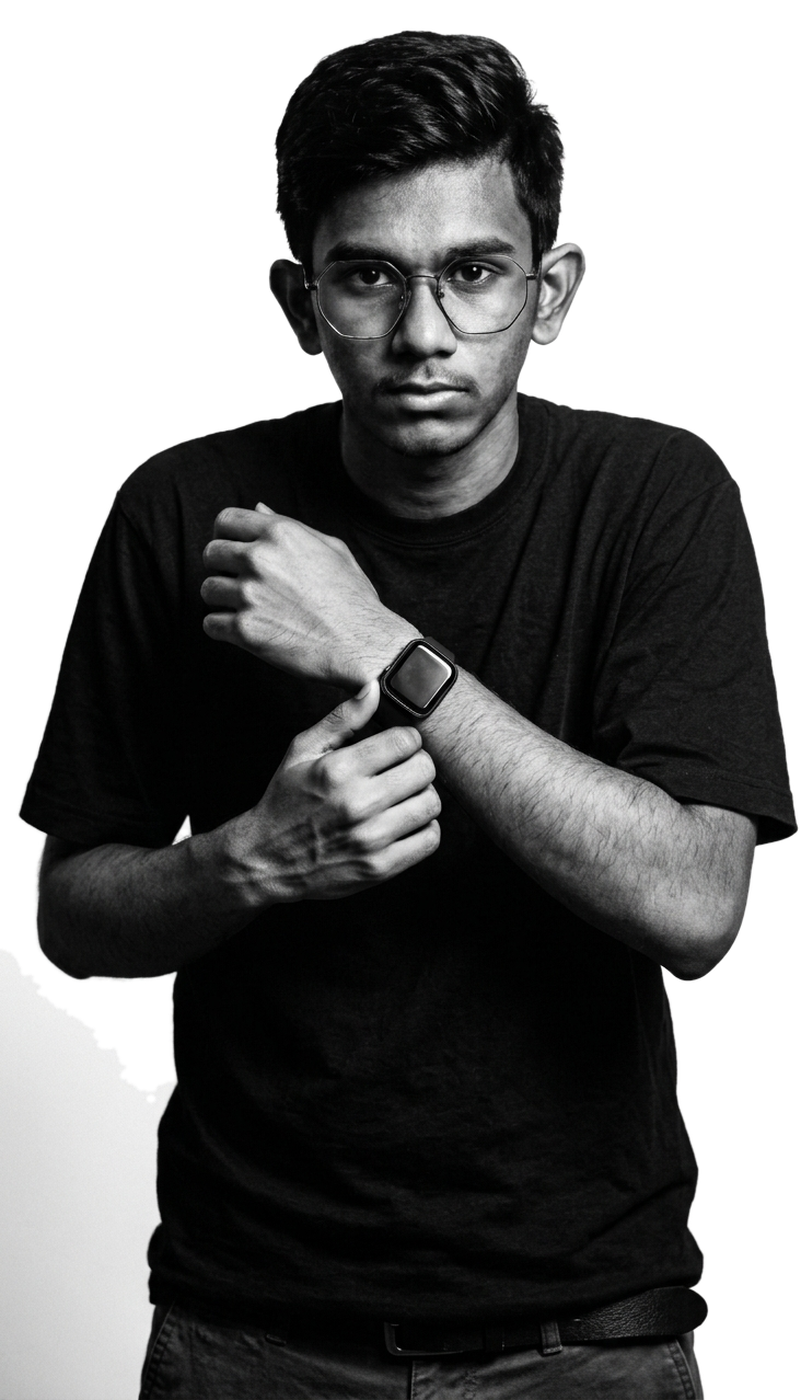
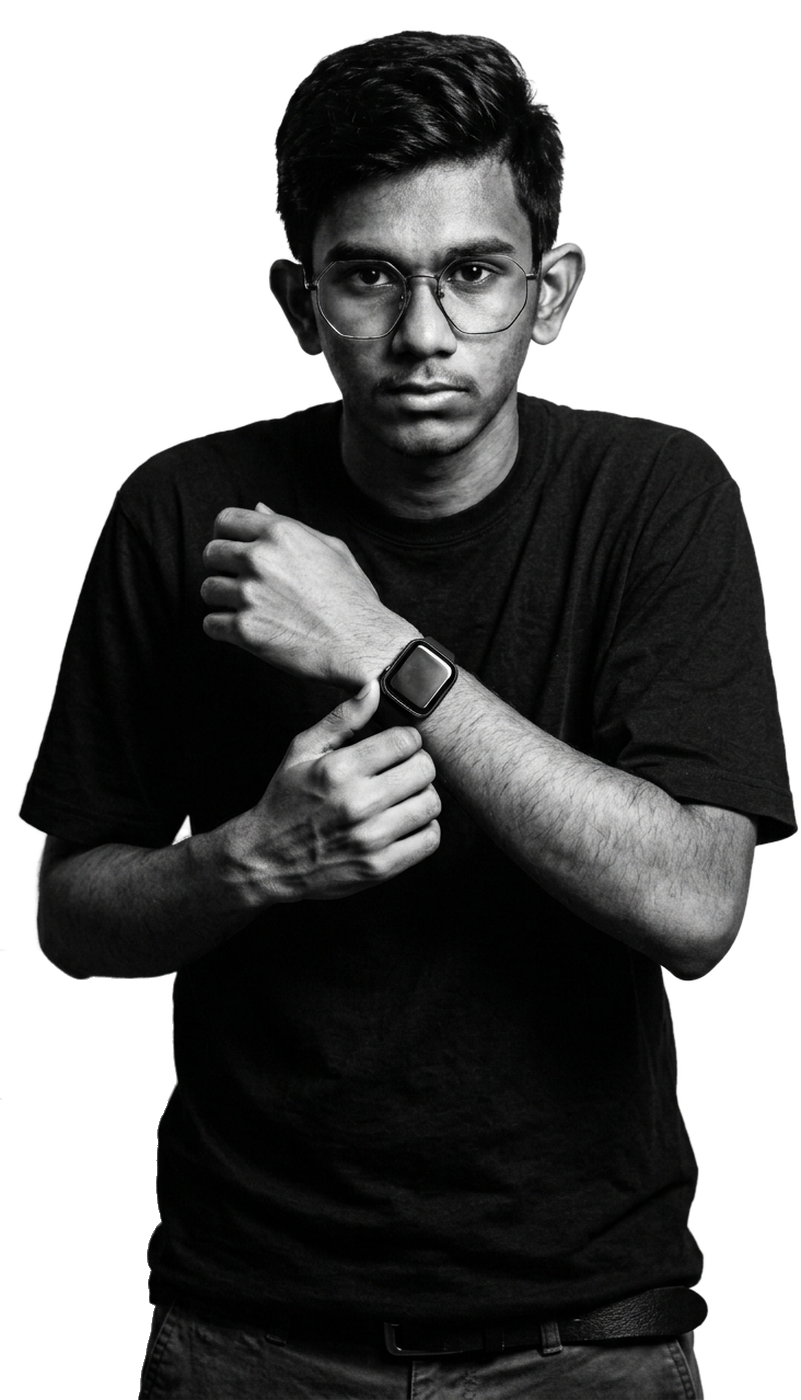
fix(ui): polish high-res CAD viewer, clean cutout edge masks, add Naveen resume, and fix card aspect ratios

Changed region(s): [[0.0, 0.7064, 0.2185, 1.0]]

diff --git a/src/components/product/PS1ProductViewer.jsx b/src/components/product/PS1ProductViewer.jsx
@@ -10,11 +10,41 @@ export default function PS1ProductViewer() {
   const mountRef = useRef(null);
 
   const angles = [
-    { id: 'front', label: 'Front View', image: '/images/thumb_front.jpg', desc: 'Active display screen, 230V AC output sockets, DC switches, and quick-access breaker panel.' },
-    { id: 'left', label: 'Left Side', image: '/images/thumb_left.jpg', desc: 'Dual MPPT solar PV inputs (12V–150V) and filtered intake cooling louvers with marine salt seals.' },
-    { id: 'rear', label: 'Rear View', image: '/images/thumb_rear.jpg', desc: 'Heavy-duty high-amp DC expansion bus for secondary 6.144 kWh pack coupling.' },
-    { id: 'right', label: 'Right Side', image: '/images/thumb_right.jpg', desc: 'High-speed forced exhaust ventilation ports with thermal automatic variable-speed fans.' },
-    { id: 'top', label: 'Top View', image: '/images/thumb_top.jpg', desc: 'Flush-recessed reinforced aluminum carrying handles and modular stacking lock guides.' }
+    { 
+      id: 'front', 
+      label: 'Front View', 
+      image: '/images/ps1_titan_studio.jpg', 
+      thumb: '/images/thumb_front.jpg', 
+      desc: 'Active display screen, 230V AC output sockets, DC switches, and quick-access breaker panel.' 
+    },
+    { 
+      id: 'left', 
+      label: 'Left Side (Inputs)', 
+      image: '/images/ps1_hero.jpg', 
+      thumb: '/images/thumb_left.jpg', 
+      desc: 'Dual MPPT solar PV inputs (12V–150V) and filtered intake cooling louvers with marine salt seals.' 
+    },
+    { 
+      id: 'rear', 
+      label: 'Rear View (DC Bus)', 
+      image: '/images/ps1_dual_stack_titan.jpg', 
+      thumb: '/images/thumb_rear.jpg', 
+      desc: 'Heavy-duty high-amp DC expansion bus for secondary 6.144 kWh pack coupling.' 
+    },
+    { 
+      id: 'right', 
+      label: 'Right Side (Exhaust)', 
+      image: '/images/mockup_hero_ps1.png', 
+      thumb: '/images/thumb_right.jpg', 
+      desc: 'High-speed forced exhaust ventilation ports with thermal automatic variable-speed fans.' 
+    },
+    { 
+      id: 'top', 
+      label: 'Top Architecture', 
+      image: '/images/sol_ps1.png', 
+      thumb: '/images/thumb_top.jpg', 
+      desc: 'Flush-recessed reinforced aluminum carrying handles, LiFePO₄ pack topology, and modular stacking lock guides.' 
+    }
   ];
 
   // Auto rotation interval for angle mode
@@ -34,17 +64,18 @@ export default function PS1ProductViewer() {
     if (viewMode !== '3d' || !mountRef.current) return;
 
     const currentMount = mountRef.current;
-    const width = currentMount.clientWidth;
-    const height = currentMount.clientHeight;
+    const width = currentMount.clientWidth || 800;
+    const height = currentMount.clientHeight || 500;
 
     // Scene, Camera, Renderer
     const scene = new THREE.Scene();
     scene.background = new THREE.Color(0x050b0a);
 
     const camera = new THREE.PerspectiveCamera(45, width / height, 0.1, 1000);
-    camera.position.set(4, 2.5, 5);
+    camera.position.set(3.5, 2.2, 4.5);
+    camera.lookAt(0, 0, 0);
 
-    const renderer = new THREE.WebGLRenderer({ antialias: true, alpha: true });
+    const renderer = new THREE.WebGLRenderer({ antialias: true, alpha: true, powerPreference: 'high-performance' });
     renderer.setSize(width, height);
     renderer.setPixelRatio(Math.min(window.devicePixelRatio, 2));
     renderer.shadowMap.enabled = true;
@@ -384,8 +415,8 @@ export default function PS1ProductViewer() {
                     : 'bg-[#050B0A]/60 border-white/10 text-[#A3ADA5] hover:border-white/25 hover:text-white'
                 }`}
               >
-                <div className="w-10 h-10 rounded-lg overflow-hidden bg-black/60 border border-white/10 flex-shrink-0 flex items-center justify-center p-1">
-                  <img src={ang.image} alt={ang.label} className="max-h-full max-w-full object-contain" />
+                <div className="w-10 h-10 rounded-lg overflow-hidden bg-[#050B0A] border border-white/10 flex-shrink-0 flex items-center justify-center">
+                  <img src={ang.image} alt={ang.label} className="w-full h-full object-cover" />
                 </div>
                 <div>
                   <div className="text-xs font-bold leading-tight">{ang.label}</div>

diff --git a/src/pages/HomePage.jsx b/src/pages/HomePage.jsx
@@ -333,11 +333,11 @@ export default function HomePage() {
                 <div className="text-xs font-mono text-[#A3ADA5] mt-1">
                   2.88 kWp Solar | 100% Diesel-Free
                 </div>
-                <div className="relative aspect-[16/11] my-4 rounded-2xl bg-[#050B0A] border border-white/10 flex items-center justify-center p-3">
+                <div className="relative aspect-[16/11] my-4 rounded-2xl bg-[#050B0A] border border-white/10 flex items-center justify-center overflow-hidden">
                   <img
-                    src="/images/besant_wide.png"
+                    src="/images/commercial_solar.jpg"
                     alt="Besant Nagar Commercial Solar Pilot"
-                    className="max-h-full max-w-full object-cover rounded-xl filter drop-shadow-[0_15px_25px_rgba(0,0,0,0.8)] group-hover:scale-105 transition duration-300"
+                    className="w-full h-full object-cover filter brightness-95 group-hover:scale-105 transition duration-500"
                   />
                 </div>
                 <p className="text-xs text-[#A3ADA5] leading-relaxed">

diff --git a/src/components/layout/Navbar.jsx b/src/components/layout/Navbar.jsx
@@ -92,10 +92,11 @@ export default function Navbar() {
         <div className="flex items-center gap-3">
           <Link
             to="/get-a-quote"
-            className="bg-[#A3FF35] hover:bg-[#8ee827] text-black font-extrabold text-xs px-5 py-2.5 rounded-full transition shadow-[0_0_20px_rgba(163,255,55,0.25)] flex items-center gap-2 group font-heading"
+            className="bg-[#A3FF35] hover:bg-[#8ee827] text-black font-extrabold text-xs px-3.5 sm:px-5 py-2.5 rounded-full transition shadow-[0_0_20px_rgba(163,255,55,0.25)] flex items-center gap-1.5 sm:gap-2 group font-heading whitespace-nowrap shrink-0"
           >
-            <span>Start an Enquiry</span>
-            <ArrowRight className="w-3.5 h-3.5 group-hover:translate-x-0.5 transition" />
+            <span className="hidden sm:inline">Start an Enquiry</span>
+            <span className="sm:hidden">Enquire</span>
+            <ArrowRight className="w-3.5 h-3.5 group-hover:translate-x-0.5 transition shrink-0" />
           </Link>
 
           {/* Mobile Hamburger Button */}

diff --git a/src/components/ItelProductMatrix.jsx b/src/components/ItelProductMatrix.jsx
@@ -73,7 +73,7 @@ export default function ItelProductMatrix() {
       badge: 'Turnkey Commercial Pilot',
       capacity: '2.88 kWp Bifacial Solar | 100% Diesel-Free',
       tagline: 'Field-deployed off-grid power replacement for commercial retail stalls, saving ₹14,000/month.',
-      image: '/images/besant_wide.png',
+      image: '/images/commercial_solar.jpg',
       specs: [
         { label: 'Solar Generation', value: '4x 720W Bifacial Panels (2.88 kWp)' },
         { label: 'Storage Cluster', value: '12.288 kWh LiFePO₄ Pack' },

diff --git a/src/data/teamData.js b/src/data/teamData.js
@@ -1170,7 +1170,7 @@ export const TEAM_MEMBERS = [
       "github": "https://github.com/NAVEEN2422008",
       "linkedin": "https://linkedin.com/company/adblabs"
     },
-    "resumeUrl": null
+    "resumeUrl": "/resumes/ADB-446-007_Resume.pdf"
   },
   {
     "id": "ADB-446-008",
